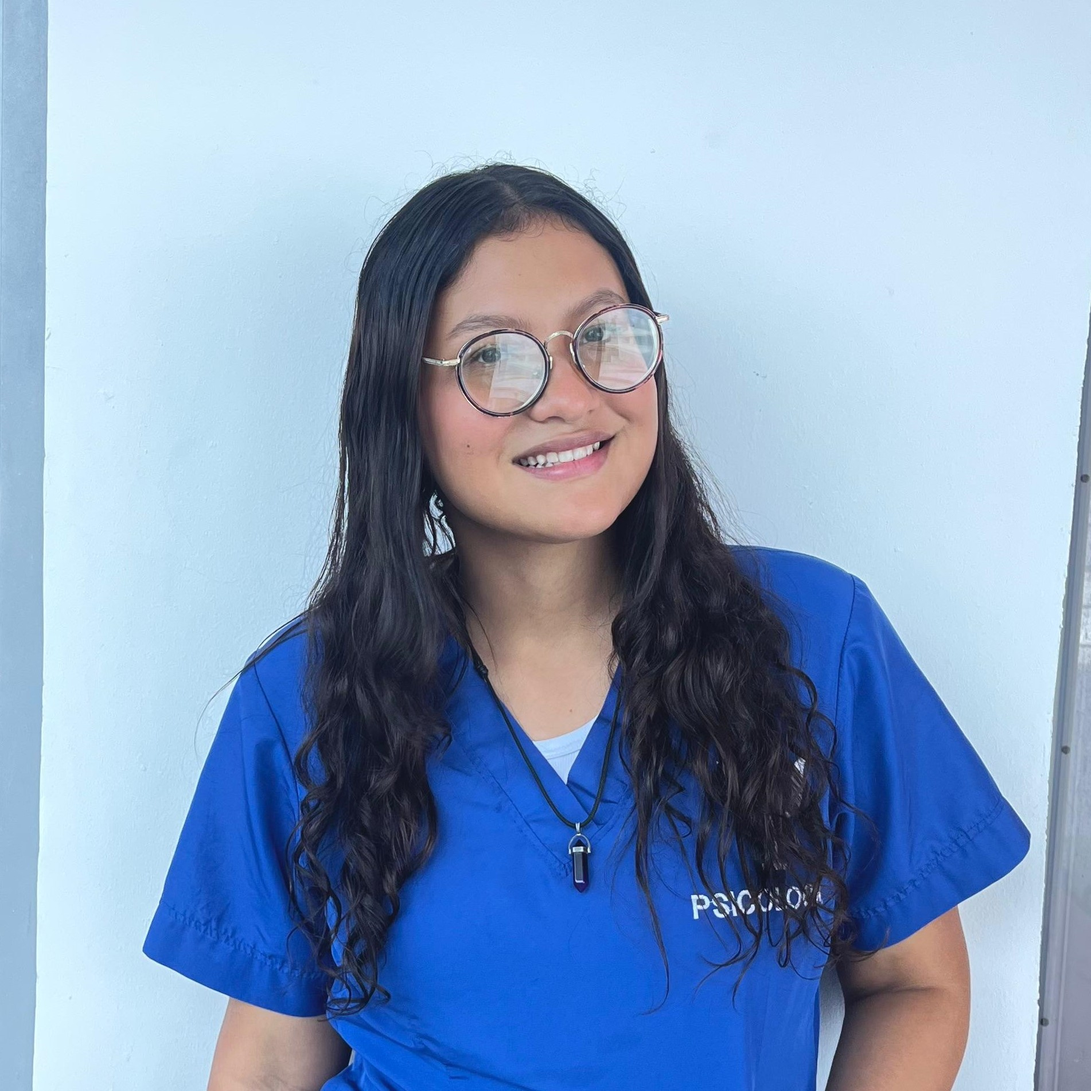
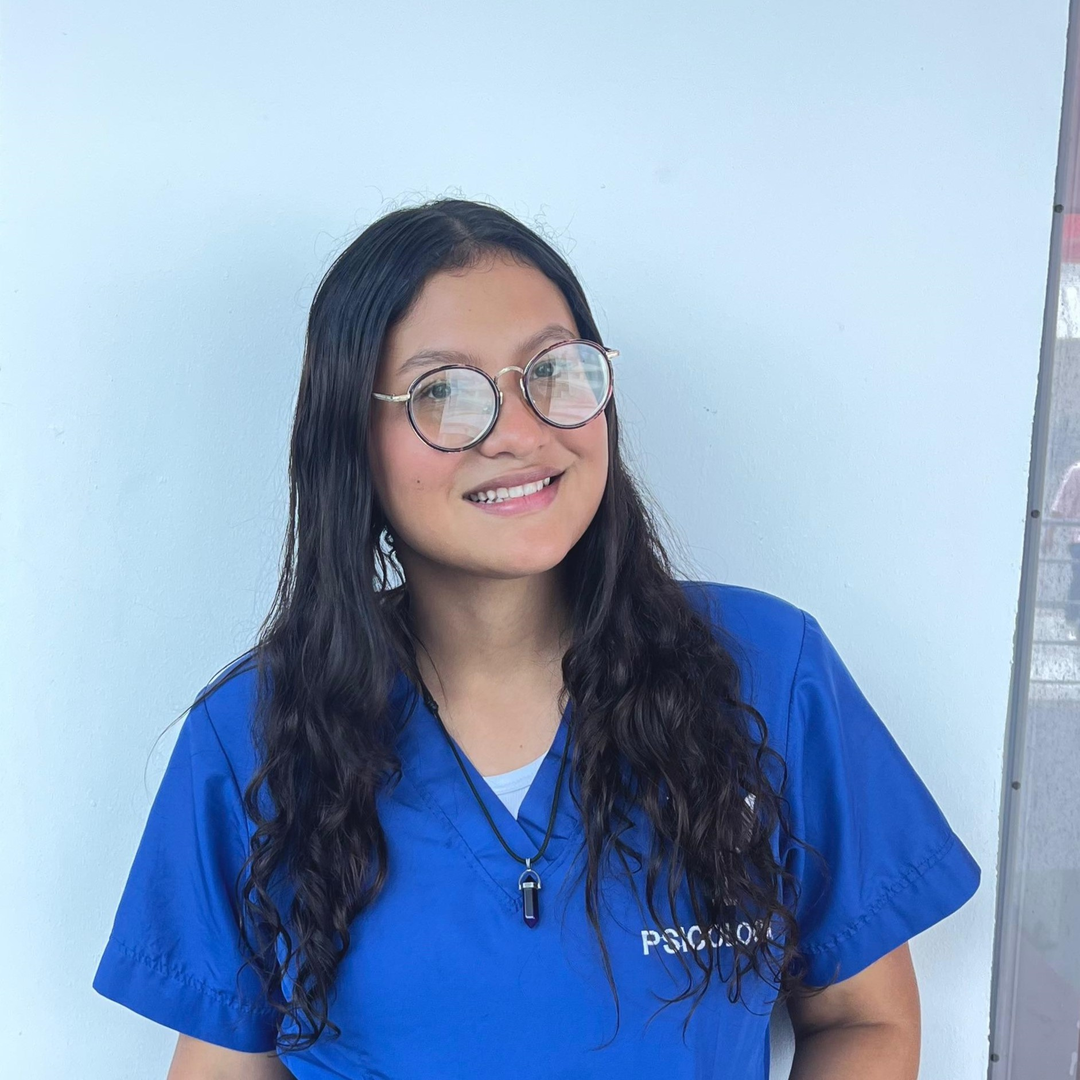
correcion: se corrigio el texto "Apoyo emocional por terapia no dirigida"
se acomodo la img de jerth

diff --git a/pages/index.html b/pages/index.html
@@ -80,7 +80,7 @@
                     <div class="servicio-icon">
                         <i class="fas fa-comments"></i>
                     </div>
-                    <h3>Apoyo Emocional</h3>
+                    <h3>terapia no dirigida</h3>
                     <p>Brindamos un espacio seguro donde estudiantes y docentes pueden expresar sus emociones y recibir apoyo personalizado.</p>
                     <img src="https://images.unsplash.com/photo-1541178735493-479c1a27ed24?ixlib=rb-1.2.1&auto=format&fit=crop&w=800&q=80" alt="Servicio de apoyo emocional" class="servicio-img">
                 </div>
